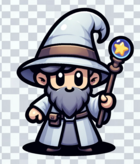
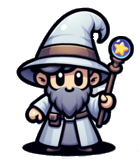
Add wizard level and improve wizard visuals

Changed region(s): [[0.0, 0.0, 0.6286, 1.0], [0.2571, 0.3354, 1.0, 1.0], [0.6286, 0.0, 1.0, 0.3963]]

diff --git a/tower.py b/tower.py
@@ -18,6 +18,8 @@ burger_img = pygame.transform.scale(burger_img, (50, 50))
 wizard_img = pygame.image.load('wizard.png')  # Load your tower image
 #wizard_img = pygame.image.load('wizard.png').convert_alpha()
 wizard_img = pygame.transform.scale(wizard_img, (50, 50))
+wizard2_img = pygame.image.load('wizard2.png')  # Load your tower image
+wizard2_img = pygame.transform.scale(wizard2_img, (55, 55))
 
 
 class Tower:
@@ -109,7 +111,7 @@ class Tower:
         return (self.position[0] - point[0]) ** 2 + (self.position[1] - point[1]) ** 2 <= radius ** 2
 
     def attack_animate(self, window):
-        pygame.draw.line(window, (255, 0, 0), self.position, self.target.position, 5)
+        pygame.draw.line(window, (255, 0, 0), self.position, self.target.position, self.beam_width)
 
 class Fighter(Tower):
 
@@ -128,6 +130,7 @@ class Fighter(Tower):
         self.image = Fighter.image
         self.level = 1
         self.upgrade_costs = [40, 150, 400]
+        self.beam_width = 5
         #self.max_level = Fighter.max_level  # try using __class__ and if works do same for other attributes
 
     def level_up(self):
@@ -153,6 +156,7 @@ class Fighter(Tower):
             self.image = fighter4_img
             self.cost += self.upgrade_costs[2]
             self.damage = 2  # compare
+            self.beam_width = 7
 
 class Burger(Tower):
 
@@ -177,18 +181,39 @@ class Wizard(Tower):
     name = 'Wizard'
     image = wizard_img
     range = 120
+    max_level = 2
 
     def __init__(self, position):
         super().__init__(position)
         self.range = Wizard.range
         self.attack_speed = 60
-        self.damage = 2
+        self.damage = 3
         self.cost = Wizard.price
         self.image = Wizard.image
         self.level = 1
         self.cloud_freq = 4
         self.attack_count = 0
         self.cloud_attack = False
+        self.upgrade_costs = [200]  # [200]
+        self.beam_width = 8
+
+
+    def rotate(self):
+        """Dont rotate wizard"""
+
+        rotated_image = self.image  # pygame.transform.rotate(self.image, angle)
+        new_rect = rotated_image.get_rect(center=self.image.get_rect(center=self.position).center)
+        return rotated_image, new_rect
+
+    def level_up(self):
+        self.level +=1
+        if self.level == 2:
+            self.attack_speed = 30  # lower is better currently
+            self.range = 130
+            self.image = wizard2_img
+            #self.cloud_freq = 3
+            self.cost += self.upgrade_costs[0]
+            self.beam_width = 10
 
     def _is_cloud_attack(self):
         # The slow but elegant way - can do one line also x=y=z
@@ -220,16 +245,26 @@ class Wizard(Tower):
         if self.viz_persist > 0:
             self.viz_persist -= 1
 
+
+    def get_staff_pos(self):
+        if self.level == 1:
+            return (self.position[0]+20, self.position[1]-10)
+        elif self.level == 2:
+            return (self.position[0]-17, self.position[1]-15)
+
     # To be every so many attacks but for now replace
     def attack_animate(self, window):
+        staff_position = self.get_staff_pos()
         if self.cloud_attack:
             #cloud = pygame.transform.scale(cloud_image, (tower.attack_radius*2, tower.attack_radius*2))
             cloud = self.create_cloud(self.range)
             cloud_rect = cloud.get_rect(center=self.position)
             window.blit(cloud, cloud_rect)
+            pygame.draw.circle(window, (255, 0, 0), staff_position, 15)  # Tower
             self.viz_persist = 5
         else:
-            pygame.draw.line(window, (255,0,255), self.position, self.target.position, 15)
+            #pygame.draw.line(window, (255,0,255), self.position, self.target.position, self.beam_width)
+            pygame.draw.line(window, (255,0,255), staff_position, self.target.position, self.beam_width)
 
     def find_target(self, enemies):
         # Only place to call function - after just check self.cloud_attack
